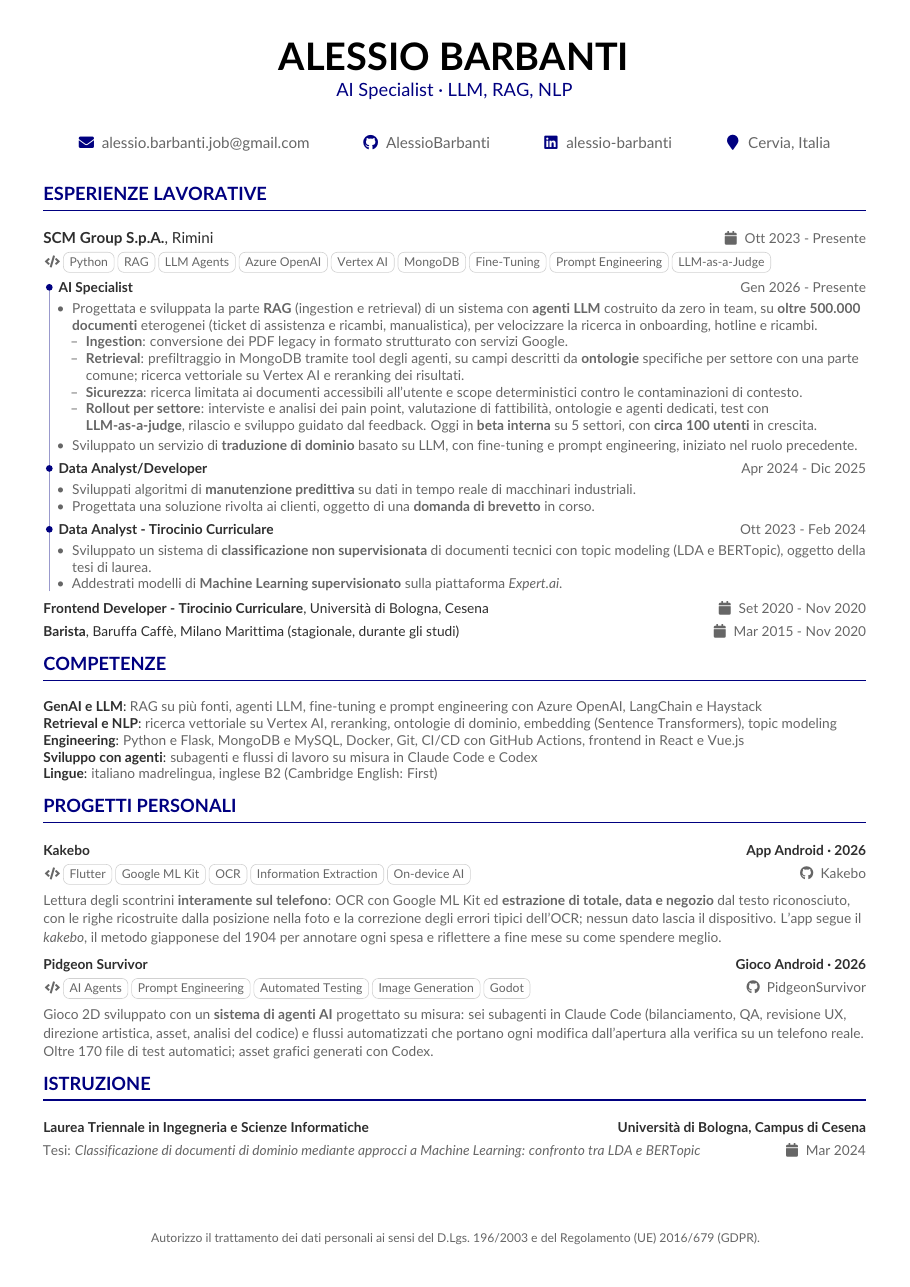
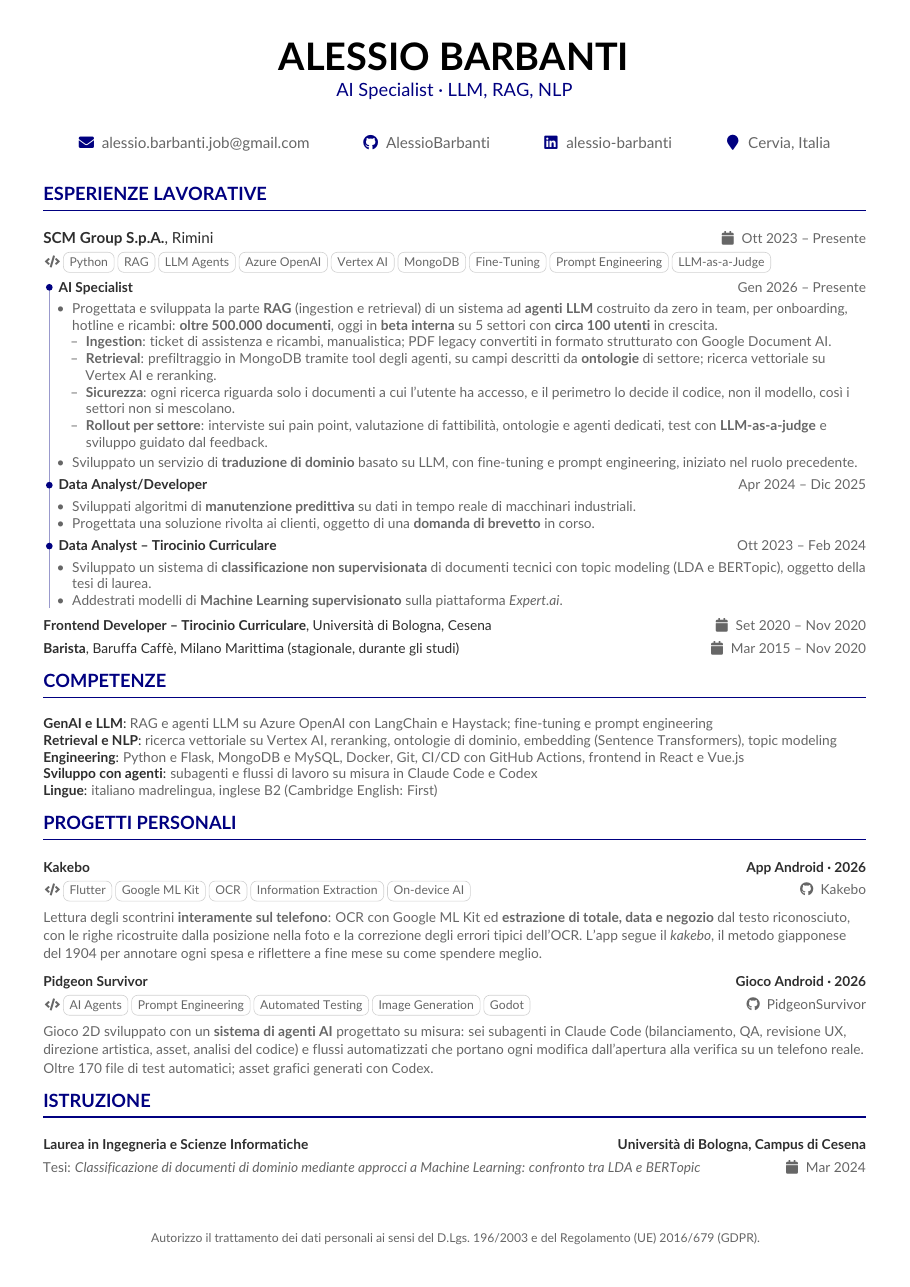
Add the English version of the CV and tighten the AI Specialist role
- \tr{italiano}{english} keeps each text next to its translation; the
  english class option picks the second, so the versions cannot drift
- build.py compiles and checks both (build/cv.pdf, build/cv-en.pdf),
  refreshes both previews and releases both PDFs
- per-version .xmpdata: PDF title, author and language (it-IT, en-US);
  pdfx was declaring en-US for the Italian CV too
- AI Specialist: all numbers in the lead bullet, shorter details, Google
  Document AI named, plain wording for access-scoped search
- skills: fine-tuning no longer tied to LangChain/Haystack; en dashes in
  dates; "Laurea"; no GDPR line in English; README and agents updated

diff --git a/src/sections/experience.tex b/src/sections/experience.tex
@@ -1,33 +1,43 @@
-\cvsection{Esperienze Lavorative}
+\cvsection{\tr{Esperienze Lavorative}{Work Experience}}
 \smallskip
-\cvcompany{SCM Group S.p.A.}{Rimini}{Ott 2023 - Presente}{\cvtag{Python}\cvtag{RAG}\cvtag{LLM Agents}\cvtag{Azure OpenAI}\cvtag{Vertex AI}\cvtag{MongoDB}\cvtag{Fine-Tuning}\cvtag{Prompt Engineering}\cvtag{LLM-as-a-Judge}}
+\cvcompany{SCM Group S.p.A.}{Rimini}{\tr{Ott 2023 – Presente}{Oct 2023 – Present}}{\cvtag{Python}\cvtag{RAG}\cvtag{LLM Agents}\cvtag{Azure OpenAI}\cvtag{Vertex AI}\cvtag{MongoDB}\cvtag{Fine-Tuning}\cvtag{Prompt Engineering}\cvtag{LLM-as-a-Judge}}
 \begin{cvroles}
-\cvrole{AI Specialist}{Gen 2026 - Presente}
+\cvrole{AI Specialist}{\tr{Gen 2026 – Presente}{Jan 2026 – Present}}
 \begin{cvitems}
-  \item Progettata e sviluppata la parte \textbf{RAG} (ingestion e retrieval) di un sistema con \textbf{agenti LLM} costruito da zero in team, su \textbf{oltre 500.000 documenti} eterogenei (ticket di assistenza e ricambi, manualistica), per velocizzare la ricerca in onboarding, hotline e ricambi.
+  \item \tr{Progettata e sviluppata la parte \textbf{RAG} (ingestion e retrieval) di un sistema ad \textbf{agenti LLM} costruito da zero in team, per onboarding, hotline e ricambi: \textbf{oltre 500.000 documenti}, oggi in \textbf{beta interna} su 5 settori con \textbf{circa 100 utenti} in crescita.}
+           {Designed and built the \textbf{RAG} layer (ingestion and retrieval) of an \textbf{LLM agent} system developed from scratch by the team, for onboarding, hotline and spare parts: \textbf{500,000+ documents}, now in \textbf{internal beta} across 5 areas with \textbf{about 100 users} and growing.}
   \begin{cvitems}
-    \item \textbf{Ingestion}: conversione dei PDF legacy in formato strutturato con servizi Google.
-    \item \textbf{Retrieval}: prefiltraggio in MongoDB tramite tool degli agenti, su campi descritti da \textbf{ontologie} specifiche per settore con una parte comune; ricerca vettoriale su Vertex AI e reranking dei risultati.
-    \item \textbf{Sicurezza}: ricerca limitata ai documenti accessibili all'utente e scope deterministici contro le contaminazioni di contesto.
-    \item \textbf{Rollout per settore}: interviste e analisi dei pain point, valutazione di fattibilità, ontologie e agenti dedicati, test con \textbf{LLM-as-a-judge}, rilascio e sviluppo guidato dal feedback. Oggi in \textbf{beta interna} su 5 settori, con \textbf{circa 100 utenti} in crescita.
+    \item \tr{\textbf{Ingestion}: ticket di assistenza e ricambi, manualistica; PDF legacy convertiti in formato strutturato con Google Document AI.}
+             {\textbf{Ingestion}: support tickets, spare-parts tickets and manuals, with legacy PDFs converted into structured data with Google Document AI.}
+    \item \tr{\textbf{Retrieval}: prefiltraggio in MongoDB tramite tool degli agenti, su campi descritti da \textbf{ontologie} di settore; ricerca vettoriale su Vertex AI e reranking.}
+             {\textbf{Retrieval}: MongoDB pre-filtering via agent tools on fields defined by area \textbf{ontologies}; Vertex AI vector search and reranking.}
+    \item \tr{\textbf{Sicurezza}: ogni ricerca riguarda solo i documenti a cui l'utente ha accesso, e il perimetro lo decide il codice, non il modello, così i settori non si mescolano.}
+             {\textbf{Security}: searches cover only documents the user can access; the scope is set by code, not by the model, so areas never mix.}
+    \item \tr{\textbf{Rollout per settore}: interviste sui pain point, valutazione di fattibilità, ontologie e agenti dedicati, test con \textbf{LLM-as-a-judge} e sviluppo guidato dal feedback.}
+             {\textbf{Rollout by business area}: pain-point interviews, feasibility assessment, dedicated ontologies and agents, testing with \textbf{LLM-as-a-judge} and feedback-driven development.}
   \end{cvitems}
-  \item Sviluppato un servizio di \textbf{traduzione di dominio} basato su LLM, con fine-tuning e prompt engineering, iniziato nel ruolo precedente.
+  \item \tr{Sviluppato un servizio di \textbf{traduzione di dominio} basato su LLM, con fine-tuning e prompt engineering, iniziato nel ruolo precedente.}
+           {Built a \textbf{domain translation} service on LLMs, with fine-tuning and prompt engineering, started in the previous role.}
 \end{cvitems}
 \smallskip
-\cvrole{Data Analyst/Developer}{Apr 2024 - Dic 2025}
+\cvrole{Data Analyst/Developer}{\tr{Apr 2024 – Dic 2025}{Apr 2024 – Dec 2025}}
 \begin{cvitems}
-  \item Sviluppati algoritmi di \textbf{manutenzione predittiva} su dati in tempo reale di macchinari industriali.
-  \item Progettata una soluzione rivolta ai clienti, oggetto di una \textbf{domanda di brevetto} in corso.
+  \item \tr{Sviluppati algoritmi di \textbf{manutenzione predittiva} su dati in tempo reale di macchinari industriali.}
+           {Developed \textbf{predictive maintenance} algorithms on real-time data from industrial machinery.}
+  \item \tr{Progettata una soluzione rivolta ai clienti, oggetto di una \textbf{domanda di brevetto} in corso.}
+           {Designed a customer-facing solution that is the subject of a pending \textbf{patent application}.}
 \end{cvitems}
 \smallskip
-\cvrole{Data Analyst - Tirocinio Curriculare}{Ott 2023 - Feb 2024}
+\cvrole{\tr{Data Analyst – Tirocinio Curriculare}{Data Analyst Intern}}{\tr{Ott 2023 – Feb 2024}{Oct 2023 – Feb 2024}}
 \begin{cvitems}
-  \item Sviluppato un sistema di \textbf{classificazione non supervisionata} di documenti tecnici con topic modeling (LDA e BERTopic), oggetto della tesi di laurea.
-  \item Addestrati modelli di \textbf{Machine Learning supervisionato} sulla piattaforma \href{https://www.expert.ai/}{\textit{Expert.ai}}.
+  \item \tr{Sviluppato un sistema di \textbf{classificazione non supervisionata} di documenti tecnici con topic modeling (LDA e BERTopic), oggetto della tesi di laurea.}
+           {Built an \textbf{unsupervised classification} system for technical documents with topic modeling (LDA and BERTopic), the subject of my bachelor's thesis.}
+  \item \tr{Addestrati modelli di \textbf{Machine Learning supervisionato} sulla piattaforma \href{https://www.expert.ai/}{\textit{Expert.ai}}.}
+           {Trained \textbf{supervised Machine Learning} models on the \href{https://www.expert.ai/}{\textit{Expert.ai}} platform.}
 \end{cvitems}
 \end{cvroles}
 
 \medskip
-\cvrow{\small\color{emphasis}\textbf{Frontend Developer - Tirocinio Curriculare}, Università di Bologna, Cesena}{\small\faCalendar~Set 2020 - Nov 2020}
+\cvrow{\small\color{emphasis}\textbf{\tr{Frontend Developer – Tirocinio Curriculare}{Frontend Developer Intern}}, \tr{Università di Bologna}{University of Bologna}, Cesena}{\small\faCalendar~\tr{Set 2020 – Nov 2020}{Sep 2020 – Nov 2020}}
 \smallskip
-\cvrow{\small\color{emphasis}\textbf{Barista}, Baruffa Caffè, Milano Marittima (stagionale, durante gli studi)}{\small\faCalendar~Mar 2015 - Nov 2020}
+\cvrow{\small\color{emphasis}\textbf{Barista}, Baruffa Caffè, Milano Marittima (\tr{stagionale, durante gli studi}{seasonal, while studying})}{\small\faCalendar~Mar 2015 – Nov 2020}

diff --git a/scripts/build.py b/scripts/build.py
@@ -1,7 +1,7 @@
 #!/usr/bin/env python3
-"""Build the CV into build/cv.pdf and check it: exactly one page, nothing past the margins.
+"""Build the CV in Italian and English and check both: exactly one page, nothing past the margins.
 
-When the checks pass, refresh docs/preview.png; with --release, also publish the PDF as a GitHub release.
+When the checks pass, refresh the previews in docs/; with --release, also publish both PDFs as a GitHub release.
 Usage: scripts/build.py [--release]   (from Windows: wsl scripts/build.py)   exit code 0 = all good
 """
 import argparse
@@ -14,8 +14,13 @@ import sys
 from pathlib import Path
 
 ROOT = Path(__file__).resolve().parent.parent  # the repository, one level above scripts/
-LOG = ROOT / "build" / "cv.log"
-PDF = "build/cv.pdf"  # paths relative to ROOT
+
+# One source (src/cv.tex), one version per language. Paths are relative to ROOT.
+VERSIONS = [
+    # language, LaTeX job (build/<job>.pdf), class option, preview, release file suffix
+    ("it", "cv", None, "docs/preview", "_CV"),
+    ("en", "cv-en", "english", "docs/preview-en", "_CV_EN"),
+]
 
 
 def utf8(line):
@@ -61,43 +66,54 @@ def release():
         n += 1  # a release already exists today: a new tag, so it points at the current commit
         tag = f"{today}.{n}"
     name = re.search(r"\\name\{(.+?)\}", (ROOT / "src" / "cv.tex").read_text(encoding="utf-8")).group(1)
-    asset = f"build/{name.replace(' ', '_')}_CV.pdf"  # the file name recruiters download
-    shutil.copy(ROOT / PDF, ROOT / asset)
-    subprocess.run([gh, "release", "create", tag, asset, "--title", f"CV {tag}", "--notes", f"CV updated on {today}."],
+    assets = []
+    for _, job, _, _, suffix in VERSIONS:
+        asset = f"build/{name.replace(' ', '_')}{suffix}.pdf"  # the file name recruiters download
+        shutil.copy(ROOT / f"build/{job}.pdf", ROOT / asset)
+        assets.append(asset)
+    subprocess.run([gh, "release", "create", tag, *assets, "--title", f"CV {tag}", "--notes", f"CV updated on {today}."],
                    cwd=ROOT, check=True)
+
+
+def check(lang, job, option):
+    """Build one language version and print its checks; True when it is fine."""
+    tex = rf"\PassOptionsToClass{{{option}}}{{cv}}\input{{cv.tex}}" if option else "cv.tex"
+    pdflatex = ["pdflatex", "-interaction=nonstopmode", "-halt-on-error", "-file-line-error",
+                "-output-directory=../build", f"-jobname={job}", tex]
+    built = subprocess.run(pdflatex, cwd=ROOT / "src", stdout=subprocess.DEVNULL,
+                           env={**os.environ, "max_print_line": "1000"}).returncode == 0
+
+    log = (ROOT / "build" / f"{job}.log").read_bytes().decode("latin-1")
+    lines = log.splitlines()
+    if not built:
+        print(f"[{lang}] Build failed:", *errors(lines), sep="\n")
+        return False
+
+    pages = page_count(log)
+    print(f"[{lang}] Pages: {pages}" + ("" if pages == 1 else " (must fit on 1)"))
+    boxes = overfull_boxes(lines)
+    print(f"[{lang}] Past the margins: {len(boxes) or 'none'}", *[f"  {b}" for b in boxes], sep="\n")
+    print(f"[{lang}] PDF: build/{job}.pdf")
+    return pages == 1 and not boxes
 
 
 def main():
     parser = argparse.ArgumentParser(description=__doc__.splitlines()[0])
-    parser.add_argument("--release", action="store_true", help="publish the PDF as a GitHub release")
+    parser.add_argument("--release", action="store_true", help="publish both PDFs as a GitHub release")
     args = parser.parse_args()
 
     (ROOT / "build").mkdir(exist_ok=True)
-    pdflatex = ["pdflatex", "-interaction=nonstopmode", "-halt-on-error", "-file-line-error",
-                "-output-directory=../build", "cv.tex"]
     try:
-        built = subprocess.run(pdflatex, cwd=ROOT / "src", stdout=subprocess.DEVNULL,
-                               env={**os.environ, "max_print_line": "1000"}).returncode == 0
+        results = [check(lang, job, option) for lang, job, option, _, _ in VERSIONS]  # all, even after a failure
     except FileNotFoundError:
         sys.exit("pdflatex not found: install TeX Live (see README)")
-
-    log = LOG.read_bytes().decode("latin-1")
-    lines = log.splitlines()
-    if not built:
-        print("Build failed:", *errors(lines), sep="\n")
-        return 1
-
-    pages = page_count(log)
-    print(f"Pages: {pages}" + ("" if pages == 1 else " (must fit on 1)"))
-    boxes = overfull_boxes(lines)
-    print(f"Past the margins: {len(boxes) or 'none'}", *[f"  {b}" for b in boxes], sep="\n")
-    print(f"PDF: {PDF}")
-    if pages != 1 or boxes:
+    if not all(results):
         return 1
 
     (ROOT / "docs").mkdir(exist_ok=True)
-    subprocess.run(["pdftoppm", "-png", "-r", "110", "-singlefile", PDF, "docs/preview"],
-                   cwd=ROOT, check=True)
+    for _, job, _, preview, _ in VERSIONS:
+        subprocess.run(["pdftoppm", "-png", "-r", "110", "-singlefile", f"build/{job}.pdf", preview],
+                       cwd=ROOT, check=True)
     if args.release:
         release()
     return 0

diff --git a/src/sections/projects.tex b/src/sections/projects.tex
@@ -1,8 +1,10 @@
-\cvsection{Progetti Personali}
+\cvsection{\tr{Progetti Personali}{Personal Projects}}
 \smallskip
-\cvproject{Kakebo}{App Android · 2026}{\cvtag{Flutter}\cvtag{Google ML Kit}\cvtag{OCR}\cvtag{Information Extraction}\cvtag{On-device AI}}{\href{https://github.com/AlessioBarbanti/Kakebo}{Kakebo}}
-{\small Lettura degli scontrini \textbf{interamente sul telefono}: OCR con Google ML Kit ed \textbf{estrazione di totale, data e negozio} dal testo riconosciuto, con le righe ricostruite dalla posizione nella foto e la correzione degli errori tipici dell'OCR; nessun dato lascia il dispositivo. L'app segue il \textit{kakebo}, il metodo giapponese del 1904 per annotare ogni spesa e riflettere a fine mese su come spendere meglio.}
+\cvproject{Kakebo}{\tr{App Android}{Android app} · 2026}{\cvtag{Flutter}\cvtag{Google ML Kit}\cvtag{OCR}\cvtag{Information Extraction}\cvtag{On-device AI}}{\href{https://github.com/AlessioBarbanti/Kakebo}{Kakebo}}
+{\small\tr{Lettura degli scontrini \textbf{interamente sul telefono}: OCR con Google ML Kit ed \textbf{estrazione di totale, data e negozio} dal testo riconosciuto, con le righe ricostruite dalla posizione nella foto e la correzione degli errori tipici dell'OCR. L'app segue il \textit{kakebo}, il metodo giapponese del 1904 per annotare ogni spesa e riflettere a fine mese su come spendere meglio.}
+          {Reads receipts \textbf{entirely on the phone}: OCR with Google ML Kit and \textbf{extraction of total, date and shop} from the recognized text, with rows rebuilt from their position in the photo and typical OCR errors corrected. The app follows \textit{kakebo}, the Japanese method from 1904 of writing down every expense and reflecting at the end of the month on how to spend better.}}
 
 \medskip
-\cvproject{Pidgeon Survivor}{Gioco Android · 2026}{\cvtag{AI Agents}\cvtag{Prompt Engineering}\cvtag{Automated Testing}\cvtag{Image Generation}\cvtag{Godot}}{\href{https://github.com/AlessioBarbanti/PidgeonSurvivor}{PidgeonSurvivor}}
-{\small Gioco 2D sviluppato con un \textbf{sistema di agenti AI} progettato su misura: sei subagenti in Claude~Code (bilanciamento, QA, revisione UX, direzione artistica, asset, analisi del codice) e flussi automatizzati che portano ogni modifica dall'apertura alla verifica su un telefono reale. Oltre 170 file di test automatici; asset grafici generati con Codex.}
+\cvproject{Pidgeon Survivor}{\tr{Gioco Android}{Android game} · 2026}{\cvtag{AI Agents}\cvtag{Prompt Engineering}\cvtag{Automated Testing}\cvtag{Image Generation}\cvtag{Godot}}{\href{https://github.com/AlessioBarbanti/PidgeonSurvivor}{PidgeonSurvivor}}
+{\small\tr{Gioco 2D sviluppato con un \textbf{sistema di agenti AI} progettato su misura: sei subagenti in Claude~Code (bilanciamento, QA, revisione UX, direzione artistica, asset, analisi del codice) e flussi automatizzati che portano ogni modifica dall'apertura alla verifica su un telefono reale. Oltre 170 file di test automatici; asset grafici generati con Codex.}
+          {2D game built with a custom-designed \textbf{AI agent system}: six subagents in Claude~Code (balancing, QA, UX review, art direction, assets, code analysis) and automated workflows that take every change from ticket to verification on a real phone. Over 170 automated test files; art assets generated with Codex.}}

diff --git a/src/sections/skills.tex b/src/sections/skills.tex
@@ -1,9 +1,14 @@
-\cvsection{Competenze}
+\cvsection{\tr{Competenze}{Skills}}
 \smallskip
 {\small
-\cvskill{GenAI e LLM}{RAG su più fonti, agenti LLM, fine-tuning e prompt engineering con Azure OpenAI, LangChain e Haystack}
-\cvskill{Retrieval e NLP}{ricerca vettoriale su Vertex AI, reranking, ontologie di dominio, embedding (Sentence Transformers), topic modeling}
-\cvskill{Engineering}{Python e Flask, MongoDB e MySQL, Docker, Git, CI/CD con GitHub Actions, frontend in React e Vue.js}
-\cvskill{Sviluppo con agenti}{subagenti e flussi di lavoro su misura in Claude~Code e Codex}
-\cvskill{Lingue}{italiano madrelingua, inglese B2 (Cambridge English: First)}
+\cvskill{GenAI \tr{e}{\&} LLM}{\tr{RAG e agenti LLM su Azure OpenAI con LangChain e Haystack; fine-tuning e prompt engineering}
+                                {RAG and LLM agents on Azure OpenAI with LangChain and Haystack; fine-tuning and prompt engineering}}
+\cvskill{Retrieval \tr{e}{\&} NLP}{\tr{ricerca vettoriale su Vertex AI, reranking, ontologie di dominio, embedding (Sentence Transformers), topic modeling}
+                                  {vector search on Vertex AI, reranking, domain ontologies, embeddings (Sentence Transformers), topic modeling}}
+\cvskill{Engineering}{\tr{Python e Flask, MongoDB e MySQL, Docker, Git, CI/CD con GitHub Actions, frontend in React e Vue.js}
+                         {Python and Flask, MongoDB and MySQL, Docker, Git, CI/CD with GitHub Actions, front ends in React and Vue.js}}
+\cvskill{\tr{Sviluppo con agenti}{Agentic development}}{\tr{subagenti e flussi di lavoro su misura in Claude~Code e Codex}
+                                                         {custom subagents and workflows in Claude~Code and Codex}}
+\cvskill{\tr{Lingue}{Languages}}{\tr{italiano madrelingua, inglese B2 (Cambridge English: First)}
+                                   {Italian (native), English (B2, Cambridge English: First)}}
 }

diff --git a/src/cv.tex b/src/cv.tex
@@ -10,7 +10,7 @@
 \begin{center}
 \setlength{\tabcolsep}{1.5em} % space between contacts, symmetric so the row stays centred
 \begin{tabular}{c c c c}
-    \email{alessio.barbanti.job@gmail.com} & \github{AlessioBarbanti} & \linkedin{alessio-barbanti} & \location{Cervia, Italia}
+    \email{alessio.barbanti.job@gmail.com} & \github{AlessioBarbanti} & \linkedin{alessio-barbanti} & \location{Cervia, \tr{Italia}{Italy}}
 \end{tabular}
 \end{center}
 
@@ -20,5 +20,6 @@
 \input{sections/education.tex}
 
 \vspace*{\fill}
-{\footnotesize\centering Autorizzo il trattamento dei dati personali ai sensi del D.Lgs.~196/2003 e del Regolamento (UE) 2016/679 (GDPR).\par}
+\tr{{\footnotesize\centering Autorizzo il trattamento dei dati personali ai sensi del D.Lgs.~196/2003 e del Regolamento (UE) 2016/679 (GDPR).\par}}
+   {}% an Italian requirement: the English CV, sent abroad, does without it
 \end{document}

diff --git a/src/sections/education.tex b/src/sections/education.tex
@@ -1,3 +1,7 @@
-\cvsection{Istruzione}
+\cvsection{\tr{Istruzione}{Education}}
 \smallskip
-\cveducation{Laurea Triennale in Ingegneria e Scienze Informatiche}{Università di Bologna, Campus di Cesena}{Mar 2024}{Tesi: \textit{Classificazione di documenti di dominio mediante approcci a Machine Learning: confronto tra LDA e BERTopic}}
+\cveducation{\tr{Laurea in Ingegneria e Scienze Informatiche}{Bachelor's Degree in Computer Science and Engineering}}
+            {\tr{Università di Bologna, Campus di Cesena}{University of Bologna, Cesena Campus}}
+            {Mar 2024}
+            {\tr{Tesi: \textit{Classificazione di documenti di dominio mediante approcci a Machine Learning: confronto tra LDA e BERTopic}}
+                {Thesis: \textit{Domain document classification with Machine Learning: comparing LDA and BERTopic}}}

diff --git a/README.md b/README.md
@@ -1,15 +1,19 @@
 # Curriculum Vitae — Alessio Barbanti
 
-My CV, written in LaTeX: one page, readable by applicant tracking systems (ATS), built and checked with a single command.
+My CV, written in LaTeX in Italian and English: one page, readable by applicant tracking systems (ATS), built and checked with a single command.
 
-**[Download the latest PDF](https://github.com/AlessioBarbanti/Curriculum/releases/latest/download/Alessio_Barbanti_CV.pdf)**
+**Download the latest PDF: [English](https://github.com/AlessioBarbanti/Curriculum/releases/latest/download/Alessio_Barbanti_CV_EN.pdf) · [Italiano](https://github.com/AlessioBarbanti/Curriculum/releases/latest/download/Alessio_Barbanti_CV.pdf)**
 
-<p align="center"><img src="docs/preview.png" alt="Preview of the CV" width="720"></p>
+<p align="center">
+  <img src="docs/preview-en.png" alt="Preview of the CV in English" width="49%">
+  <img src="docs/preview.png" alt="Preview of the CV in Italian" width="49%">
+</p>
 
 ## What's inside
 
 - **ATS-friendly PDF.** The text layer matches what is printed: ligatures are disabled (`fi` stays two letters), words are never split across lines, icons are hidden from text extraction, and the file is PDF/A-1b.
-- **Checked build.** `scripts/build.py` fails if the CV spills onto a second page or if any text crosses the margins or overlaps other text, and shows which text.
+- **One source, two languages.** Every text sits next to its translation as `\tr{italiano}{english}`, so the two versions cannot drift apart. Each PDF declares its own language, title and author.
+- **Checked build.** `scripts/build.py` fails if either version spills onto a second page or if any text crosses the margins or overlaps other text, and shows which text.
 - **Review agents.** Two [Claude Code](https://claude.com/claude-code) subagents review the CV: one for content, one for style.
 
 ## Structure
@@ -17,10 +21,11 @@ My CV, written in LaTeX: one page, readable by applicant tracking systems (ATS),
 ```
 src/cv.tex             header, section order, footer
 src/sections/          one file per section: experience, skills, projects, education
-src/cv.cls             layout and macros: \cvcompany, \cvrole, \cveducation, \cvproject, \cvskill, \cvtag
-scripts/build.py       build, checks, preview and release
+src/cv.cls             layout and macros: \tr, \cvcompany, \cvrole, \cveducation, \cvproject, \cvskill, \cvtag
+src/*.xmpdata          PDF metadata (title, author, language) for each version
+scripts/build.py       build, checks, previews and release
 scripts/test_build.py  tests for the log checks in build.py
-docs/preview.png       the preview above, refreshed by scripts/build.py
+docs/preview*.png      the previews above, refreshed by scripts/build.py
 .claude/agents/        review agents
 ```
 
@@ -39,9 +44,12 @@ scripts/build.py          # from Windows: wsl scripts/build.py
 ```
 
 ```
-Pages: 1
-Past the margins: none
-PDF: build/cv.pdf
+[it] Pages: 1
+[it] Past the margins: none
+[it] PDF: build/cv.pdf
+[en] Pages: 1
+[en] Past the margins: none
+[en] PDF: build/cv-en.pdf
 ```
 
 The exit code is `0` when everything is fine. Otherwise the script prints the LaTeX error with file and line, the page count, or the overflowing text and by how much it overflows.
@@ -56,7 +64,7 @@ Commit and push the changes, then:
 scripts/build.py --release
 ```
 
-This creates a GitHub release named after today's date (`2026-10-11`, then `2026-10-11.2` for a second one on the same day) with `Alessio_Barbanti_CV.pdf` attached. The download link above always points to the latest release. It needs the [GitHub CLI](https://cli.github.com/); under WSL the Windows `gh.exe` works as well.
+This creates a GitHub release named after today's date (`2026-10-11`, then `2026-10-11.2` for a second one on the same day) with `Alessio_Barbanti_CV.pdf` and `Alessio_Barbanti_CV_EN.pdf` attached. The download links above always point to the latest release. It needs the [GitHub CLI](https://cli.github.com/); under WSL the Windows `gh.exe` works as well.
 
 ## Review agents
 
@@ -65,7 +73,7 @@ In Claude Code, from this folder:
 - `cv-revisore` reviews the content: impact, relevance, consistency, missing sections.
 - `cv-stile` reviews the writing: grammar, typos, consistent formatting, plain wording.
 
-Both only read the files and propose changes as ready-to-paste LaTeX. Their prompts are in Italian, like the CV.
+Both only read the files and propose changes as ready-to-paste LaTeX. Their prompts are in Italian, and they review both languages.
 
 ## Credits
 
@@ -75,6 +83,6 @@ The layout started from [techResume](https://github.com/alexcalabrese/techResume
 
 - `src/cv.cls`: [LPPL 1.3c](https://www.latex-project.org/lppl/lppl-1-3c/) or later, as a derivative of AltaCV.
 - `scripts/` and `.claude/agents/`: MIT.
-- The CV itself (`src/cv.tex`, `src/sections/`, the preview and the released PDFs): © Alessio Barbanti, all rights reserved.
+- The CV itself (`src/cv.tex`, `src/sections/`, `src/*.xmpdata`, the previews and the released PDFs): © Alessio Barbanti, all rights reserved.
 
 Details in [LICENSE](LICENSE).

diff --git a/.claude/agents/cv-revisore.md b/.claude/agents/cv-revisore.md
@@ -7,6 +7,7 @@ tools: Read, Grep, Glob
 Sei un recruiter tecnico senior italiano che legge centinaia di CV per ruoli da AI specialist e AI/LLM engineer (LLM, RAG, NLP). Rivedi il **contenuto** di questo curriculum.
 
 ## Dove guardare
+- Ogni testo esiste in italiano e in inglese, affiancati come `\tr{italiano}{english}` (opzione `english` della classe). Rivedi entrambe le versioni: l'inglese in American English, coerente con l'italiano.
 - `src/cv.tex`: header, ordine delle sezioni, footer privacy.
 - `src/sections/*.tex`: le sezioni. Un file non incluso con `\input` in `src/cv.tex` non compare nel PDF; le righe che iniziano con `%` sono commentate.
 - Macro in `src/cv.cls`: `\cvcompany{azienda}{città}{periodo}{tag}` seguito dai ruoli `\cvrole{ruolo}{date}` + elenco `cvitems`, `\cvproject{titolo}{sottotitolo}{tag}{link}{descrizione}`, `\cveducation{titolo}{ente}{data}{dettaglio}`, `\cvskill{area}{testo}`, `\cvtag{...}`.

diff --git a/.claude/agents/cv-stile.md b/.claude/agents/cv-stile.md
@@ -7,6 +7,7 @@ tools: Read, Grep, Glob
 Sei un correttore di bozze per CV tecnici in italiano. Il tuo compito è far sembrare questo curriculum un **vero CV**: frasi corte, dirette, fatti concreti. Non giudichi *cosa* c'è scritto (lo fa `cv-revisore`), ma *come* è scritto.
 
 ## Dove guardare
+- Ogni testo esiste in italiano e in inglese, affiancati come `\tr{italiano}{english}` (opzione `english` della classe). Rivedi entrambe le versioni: l'inglese in American English, coerente con l'italiano.
 - `src/cv.tex` e `src/sections/*.tex` (ignora le righe commentate con `%` e i file non inclusi con `\input`).
 - Macro in `src/cv.cls`: `\cvcompany`, `\cvrole`, `\cvskill`, `\cvproject`, `\cveducation`, `\cvtag`, `\cvsection`.
 
